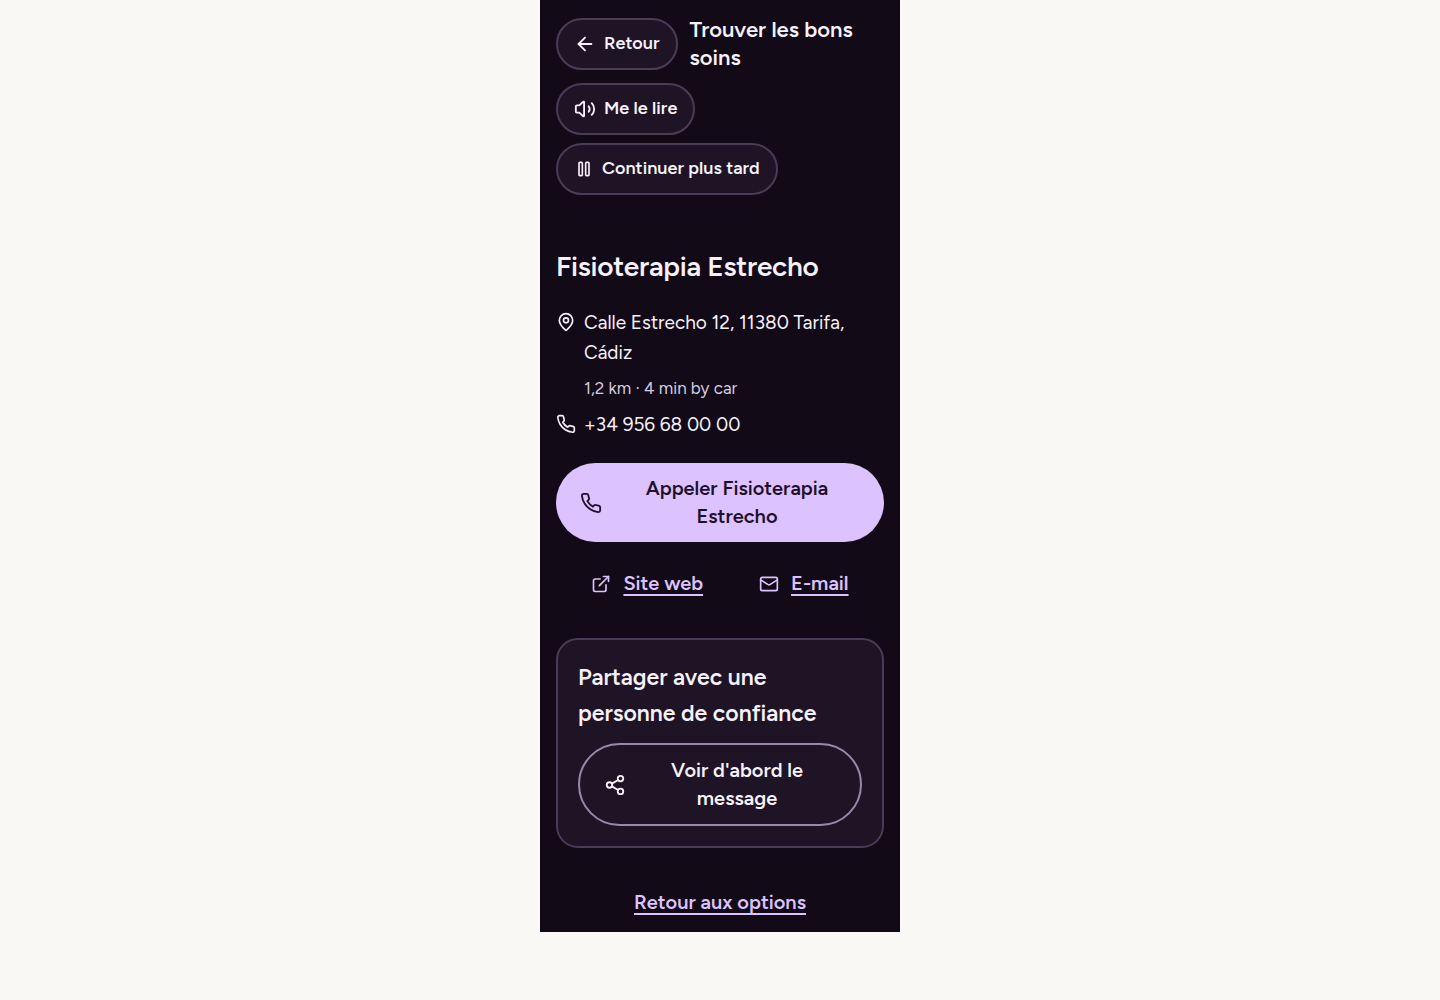
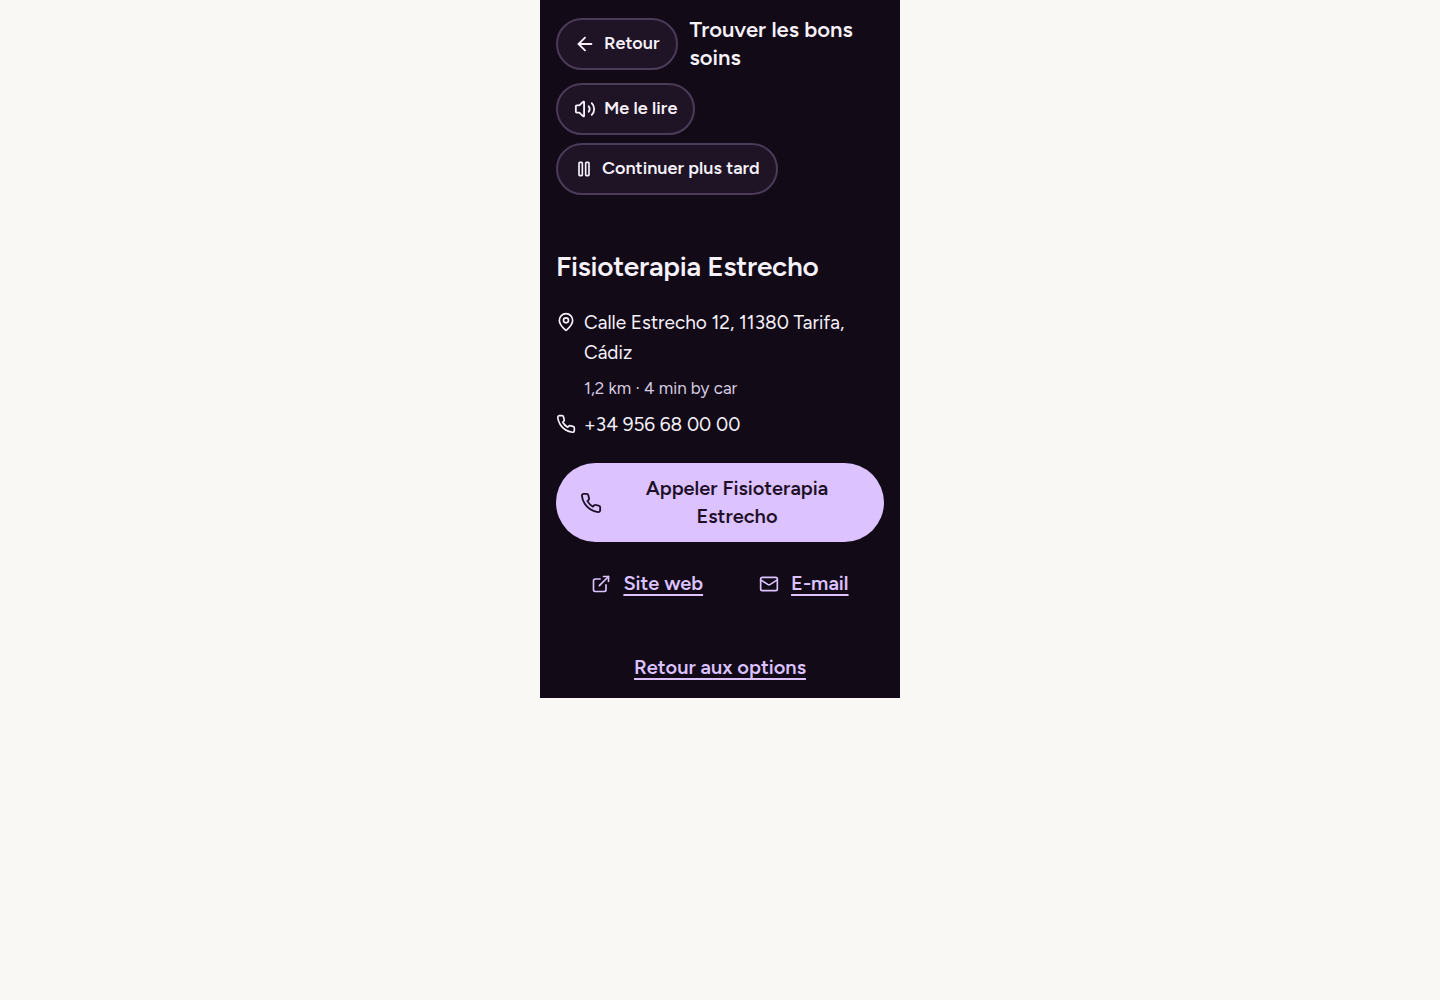
Care Finder: drop "share with someone I trust" from the contact step
It took a large box for an action that isn't part of finding and reaching
care. The contact step is now the place, its details and the ways to reach
it. shareMessage.ts and its copy go; the flow's shareItems field stays so
saved tasks still load.

Claude-Session: https://claude.ai/code/session_01VV49smnWjUgj9Kvixja9Ew

Changed region(s): [[0.375, 0.651, 0.625, 0.93]]

diff --git a/src/features/careFinder/ContactStep.tsx b/src/features/careFinder/ContactStep.tsx
@@ -1,12 +1,8 @@
 import { useEffect, useRef, useState, type ReactNode } from "react";
-import { Car, Copy, ExternalLink, Mail, MapPin, Phone, Share2 } from "lucide-react";
-import type { CareFinderLang } from "../../../shared/careFinder/careRoutes";
-import type { CareFinderState } from "../../../shared/careFinder/flow";
+import { Car, ExternalLink, Mail, MapPin, Phone } from "lucide-react";
 import type { CareFinderResultOption } from "../../../shared/careFinder/search";
 import type { CareFinderCopy } from "./copy";
-import { careShareMessage } from "./shareMessage";
 import { ActionButton, Notice, actionClass } from "./parts";
-import { formatCheckedAt } from "./ResultsStep";
 
 function telHref(phone: string): string {
   return `tel:${phone.replace(/[^\d+]/g, "")}`;
@@ -53,40 +49,18 @@ function ConfirmCallDialog({ name, phone, copy, onClose }: { name: string; phone
 export function ContactStep({
   heading,
   option,
-  state,
-  lang,
   copy,
   onBackToOptions,
   onArrangeRide,
 }: {
   heading: (children: ReactNode) => ReactNode;
   option: CareFinderResultOption;
-  state: CareFinderState;
-  lang: CareFinderLang;
   copy: CareFinderCopy;
   onBackToOptions: () => void;
   onArrangeRide?: () => void;
 }) {
   const c = copy.contact;
   const [confirming, setConfirming] = useState(false);
-  const [sharePreview, setSharePreview] = useState(false);
-  const [shareNotice, setShareNotice] = useState<string | null>(null);
-  const shareMessage = careShareMessage(option, state, lang, formatCheckedAt(option.checked_at ?? new Date().toISOString(), lang));
-
-  const shareNow = async () => {
-    setShareNotice(null);
-    try {
-      if (navigator.share) {
-        await navigator.share({ text: shareMessage });
-        return;
-      }
-      await navigator.clipboard?.writeText(shareMessage);
-      setShareNotice(c.copied);
-    } catch {
-      // The person closed the share sheet; nothing was sent.
-    }
-  };
-
   return (
     <div className="space-y-6">
       {heading(c.heading(option.name))}
@@ -135,23 +109,6 @@ export function ContactStep({
         ) : null}
       </section>
 
-      <section aria-labelledby="care-share-title" className="space-y-3 rounded-[22px] border-2 border-[var(--cf-border-soft)] bg-[var(--cf-surface)] p-5">
-        <h3 id="care-share-title" className="text-[23px] font-semibold">{c.shareTitleHelper}</h3>
-        {sharePreview ? (
-          <>
-            <p className="text-[18px] text-[var(--cf-text-2)]">{c.shareIntro}</p>
-            <pre className="whitespace-pre-wrap break-words rounded-[16px] bg-[var(--cf-surface-2)] p-4 font-body text-[18px] text-[var(--cf-text)]" data-testid="care-share-preview">{shareMessage}</pre>
-            <div className="cf-row flex flex-col gap-3">
-              <ActionButton onClick={() => void shareNow()} icon={typeof navigator !== "undefined" && "share" in navigator ? <Share2 size={22} /> : <Copy size={22} />}>
-                {typeof navigator !== "undefined" && "share" in navigator ? c.shareButton : c.copyButton}
-              </ActionButton>
-            </div>
-            {shareNotice ? <p role="status" className="text-[18px] font-semibold text-[var(--cf-ok)]">{shareNotice}</p> : null}
-          </>
-        ) : (
-          <ActionButton variant="secondary" onClick={() => setSharePreview(true)} icon={<Share2 size={22} />} testId="button-care-share-preview">{c.sharePreviewButton}</ActionButton>
-        )}
-      </section>
 
       <ActionButton variant="quiet" onClick={onBackToOptions}>{c.otherOptions}</ActionButton>
 

diff --git a/src/features/careFinder/copy.ts b/src/features/careFinder/copy.ts
@@ -166,12 +166,6 @@ function englishCopy() {
       confirmBody: (phone: string) => `Your phone will call ${phone}. VYVA doesn't listen to or record the call.`,
       confirmYes: "Yes, call now",
       confirmNo: "Not yet",
-      shareTitleHelper: "Share with someone I trust",
-      shareIntro: "This exact message will be shared. Nothing is sent until you choose who to send it to.",
-      shareButton: "Choose who to send it to",
-      sharePreviewButton: "See the message first",
-      copyButton: "Copy the message",
-      copied: "Message copied",
       ride: "Arrange a ride there with VYVA",
       rideNote: "You'll confirm the details before anything is booked.",
       outcomeTitle: "How did it go?",
@@ -380,12 +374,6 @@ function spanishCopy(): Copy {
       confirmBody: (phone: string) => `Su teléfono llamará al ${phone}. VYVA no escucha ni graba la llamada.`,
       confirmYes: "Sí, llamar ahora",
       confirmNo: "Todavía no",
-      shareTitleHelper: "Compartir con alguien de confianza",
-      shareIntro: "Se compartirá exactamente este mensaje. No se envía nada hasta que elija a quién.",
-      shareButton: "Elegir a quién enviarlo",
-      sharePreviewButton: "Ver primero el mensaje",
-      copyButton: "Copiar el mensaje",
-      copied: "Mensaje copiado",
       ride: "Organizar el transporte con VYVA",
       rideNote: "Confirmará los detalles antes de reservar nada.",
       outcomeTitle: "¿Cómo ha ido?",
@@ -595,12 +583,6 @@ function frenchCopy(): Copy {
       confirmBody: (phone: string) => `Votre téléphone va appeler le ${phone}. VYVA n'écoute pas et n'enregistre pas l'appel.`,
       confirmYes: "Oui, appeler maintenant",
       confirmNo: "Pas encore",
-      shareTitleHelper: "Partager avec une personne de confiance",
-      shareIntro: "Ce message exact sera partagé. Rien n'est envoyé tant que vous n'avez pas choisi à qui.",
-      shareButton: "Choisir à qui l'envoyer",
-      sharePreviewButton: "Voir d'abord le message",
-      copyButton: "Copier le message",
-      copied: "Message copié",
       ride: "Organiser le trajet avec VYVA",
       rideNote: "Vous confirmerez les détails avant toute réservation.",
       outcomeTitle: "Comment cela s'est-il passé ?",
@@ -810,12 +792,6 @@ function germanCopy(): Copy {
       confirmBody: (phone: string) => `Ihr Telefon ruft ${phone} an. VYVA hört nicht mit und zeichnet nichts auf.`,
       confirmYes: "Ja, jetzt anrufen",
       confirmNo: "Noch nicht",
-      shareTitleHelper: "Mit einer Vertrauensperson teilen",
-      shareIntro: "Genau diese Nachricht wird geteilt. Es wird nichts gesendet, bis Sie den Empfänger auswählen.",
-      shareButton: "Empfänger auswählen",
-      sharePreviewButton: "Zuerst die Nachricht ansehen",
-      copyButton: "Nachricht kopieren",
-      copied: "Nachricht kopiert",
       ride: "Fahrt dorthin mit VYVA organisieren",
       rideNote: "Sie bestätigen die Details, bevor etwas gebucht wird.",
       outcomeTitle: "Wie ist es gelaufen?",

diff --git a/src/features/careFinder/CareFinder.test.tsx b/src/features/careFinder/CareFinder.test.tsx
@@ -200,7 +200,7 @@ describe("contact safeguards", () => {
     expect(screen.queryByRole("dialog")).not.toBeInTheDocument();
   });
 
-  it("offers the register email, and includes it in what is shared", async () => {
+  it("offers the register email", async () => {
     const withEmail = { ...okResults, options: [{ ...okResults.options[0], email: "cita@fisiocerca.es" }, ...okResults.options.slice(1)] };
     renderFinder({ services: { search: vi.fn(async () => withEmail) } });
     await walkKneeJourneyToResults();
@@ -208,8 +208,6 @@ describe("contact safeguards", () => {
     fireEvent.click(await screen.findByTestId("button-prepare-a"));
     expect(await screen.findByTestId("link-care-email")).toHaveAttribute("href", "mailto:cita@fisiocerca.es");
     expect(screen.getByTestId("link-care-email")).toHaveTextContent("Email");
-    fireEvent.click(screen.getByTestId("button-care-share-preview"));
-    expect(screen.getByTestId("care-share-preview").textContent).toContain("Email: cita@fisiocerca.es");
   });
 
   it("shows no email link when the place has none", async () => {
@@ -222,8 +220,7 @@ describe("contact safeguards", () => {
     expect(screen.getByText("Fisio Cerca street, Tarifa")).toBeInTheDocument();
     expect(screen.queryByText("What you could say")).not.toBeInTheDocument();
     expect(screen.queryByText(/Stairs are hard for me/)).not.toBeInTheDocument();
-    fireEvent.click(screen.getByTestId("button-care-share-preview"));
-    expect(screen.getByTestId("care-share-preview").textContent).not.toContain("knee");
+    expect(screen.queryByTestId("button-care-share-preview")).not.toBeInTheDocument();
   });
 });
 

diff --git a/src/features/careFinder/CareFinder.tsx b/src/features/careFinder/CareFinder.tsx
@@ -486,8 +486,6 @@ export function CareFinder({
           <ContactStep
             heading={(children) => heading(children)}
             option={selectedOption}
-            state={state}
-            lang={lang}
             copy={copy}
             onBackToOptions={() => change("results")}
             onArrangeRide={state.accessNeeds.includes("transport") && onArrangeRide ? () => onArrangeRide(selectedOption, state) : undefined}
